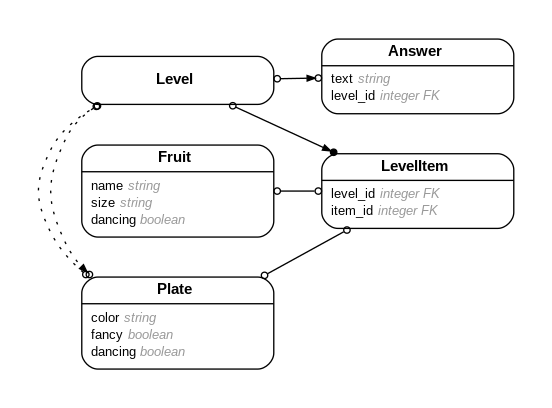
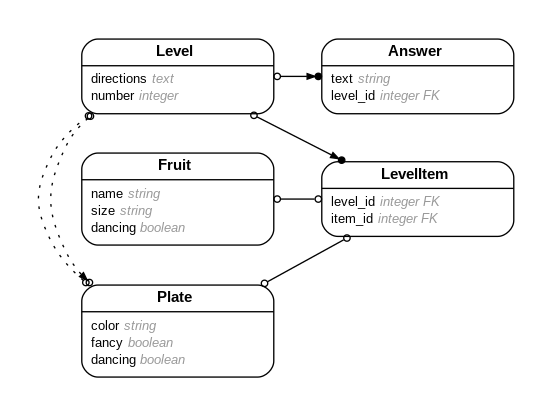
Do some shit

diff --git a/app/controllers/levels_controller.rb b/app/controllers/levels_controller.rb
@@ -6,10 +6,31 @@ class LevelsController < ApplicationController
     @levels = Level.all
   end
 
-  # GET /levels/1
   def show
+    session[:query] = []
   end
 
+  def results
+    @query = Query.find(session[:query].last["id"])
+
+    @evalu = eval(@query.input)
+    @res = false
+    @collection_returned = false
+
+    if @level.matches?(@query["input"])
+      @res =  true
+    else
+
+    end
+
+  end
+
+  def store
+    @query = {input: params.fetch(:input).gsub(/\s+/, ""), level_id: @level.id }
+    session[:query].push @query
+    @query.create_selections
+    redirect_to "/levels/#{@level.id}/results", notice: "yup"
+  end
   # GET /levels/new
   def new
     @level = Level.new
@@ -48,7 +69,11 @@ class LevelsController < ApplicationController
   private
     # Use callbacks to share common setup or constraints between actions.
     def set_level
-      @level = Level.find(params[:id])
+      if params[:id].nil?
+        @level = Level.find(1) # TODO change to cookie thing maybe
+      else
+        @level = Level.find(params[:id])
+      end
     end
 
     # Only allow a trusted parameter "white list" through.

diff --git a/db/schema.rb b/db/schema.rb
@@ -10,7 +10,7 @@
 #
 # It's strongly recommended that you check this file into your version control system.
 
-ActiveRecord::Schema.define(version: 2019_04_15_182208) do
+ActiveRecord::Schema.define(version: 2019_04_15_201647) do
 
   # These are extensions that must be enabled in order to support this database
   enable_extension "plpgsql"
@@ -40,6 +40,8 @@ ActiveRecord::Schema.define(version: 2019_04_15_182208) do
   create_table "levels", force: :cascade do |t|
     t.datetime "created_at", null: false
     t.datetime "updated_at", null: false
+    t.text "directions"
+    t.integer "number"
   end
 
   create_table "plates", force: :cascade do |t|

diff --git a/config/routes.rb b/config/routes.rb
@@ -1,9 +1,9 @@
 # frozen_string_literal: true
 
 Rails.application.routes.draw do
-  resources :fruits
-  resources :plates
-  resources :level_items
+  root "levels#show"
+  post "levels/:id", to: 'levels#store'
+  get "levels/:id/results", to: 'levels#results', as: "level_results"
   resources :levels
   # For details on the DSL available within this file, see http://guides.rubyonrails.org/routing.html
 end

diff --git a/app/models/level_item.rb b/app/models/level_item.rb
@@ -13,5 +13,5 @@ class LevelItem < ApplicationRecord
   belongs_to :level
   belongs_to :plate, :required => false, :foreign_key => "item_id"
   belongs_to :fruit, :required => false, :foreign_key => "item_id"
-  belongs_to :bento, :foreign_key => "item_id"
+  # belongs_to :bento, :foreign_key => "item_id"
 end

diff --git a/app/models/level.rb b/app/models/level.rb
@@ -3,6 +3,8 @@
 # Table name: levels
 #
 #  id         :bigint(8)        not null, primary key
+#  directions :text
+#  number     :integer
 #  created_at :datetime         not null
 #  updated_at :datetime         not null
 #

diff --git a/db/migrate/20190415201526_add_directions_to_levels.rb b/db/migrate/20190415201526_add_directions_to_levels.rb
@@ -1,0 +1,5 @@
+class AddDirectionsToLevels < ActiveRecord::Migration[5.2]
+  def change
+    add_column :levels, :directions, :text
+  end
+end

diff --git a/db/migrate/20190415201647_add_number_to_level.rb b/db/migrate/20190415201647_add_number_to_level.rb
@@ -1,0 +1,5 @@
+class AddNumberToLevel < ActiveRecord::Migration[5.2]
+  def change
+    add_column :levels, :number, :integer
+  end
+end

diff --git a/app/models/answer.rb b/app/models/answer.rb
@@ -10,4 +10,5 @@
 #
 
 class Answer < ApplicationRecord
+  belongs_to :level
 end
